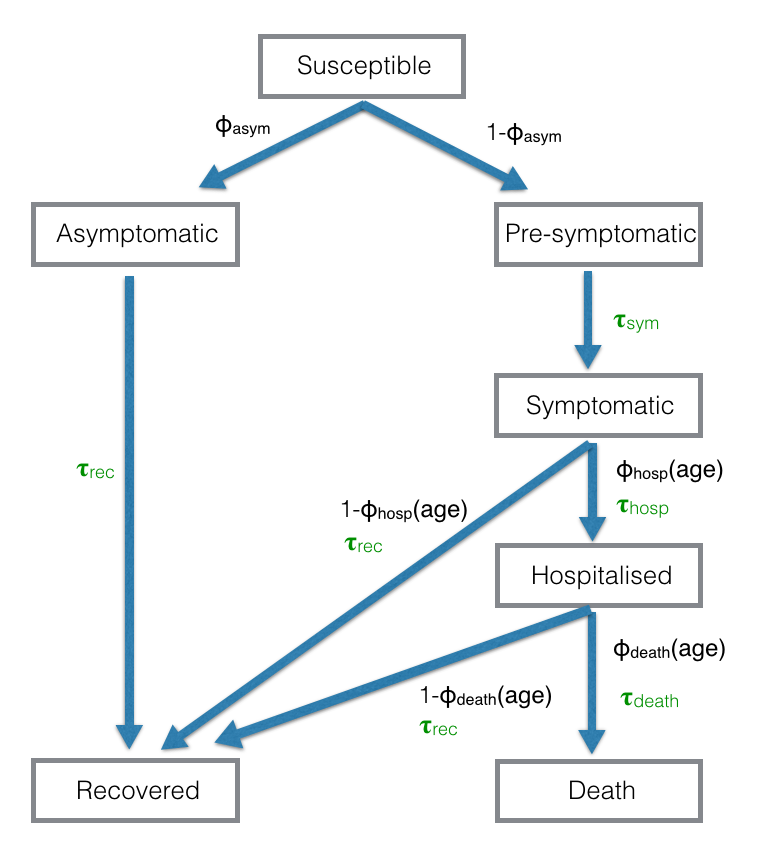
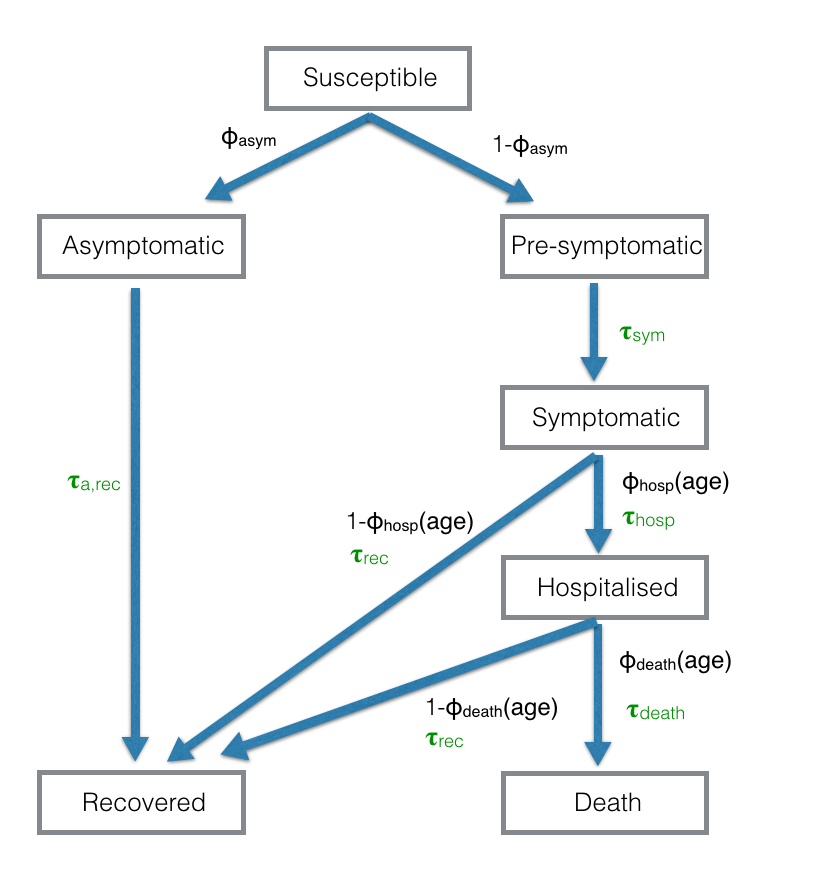
Add missing time to recovery data parameters to the documentation.

Changed region(s): [[0.0311, 0.0312, 0.9339, 0.9676], [0.9027, 0.437, 0.9339, 0.4994]]

diff --git a/documentation/covid19_model.tex b/documentation/covid19_model.tex
@@ -176,7 +176,8 @@ The final formula for the probability of the virus being transmitted in a single
 \end{equation}
 where $f_{\Gamma}(u; \mu_i,\sigma_i^2)$ is the p.d.f.\ of a gamma distribution with mean $\mu$ and variance $\sigma^2$; $t$ is the number of days since the infector become infected; $a_s$ is the age group of the susceptible; $b$ is an indicator of whether the infector is asymptomatic; and, the other terms are parameters which are in the Infectious Parameters table.
 
-The epidemic is seeded by randomly infecting a small number of individuals at the start of the infection.
+The epidemic is seeded by randomly infecting a small number of individuals at the start of the infection. 
+The infection was assumed to take place on immediately before the simulation starts.
 
 \medskip \medskip
 \begin{table}
@@ -199,6 +200,9 @@ $A_{\rm asym}$ & \texttt{asymptomatic\us infectious\us factor}& relative infecti
  $s_{\rm adult}$   &   - &  - & 1\\
  $s_{\rm elderly}$ &  \texttt{relative\us susceptibility\us elderly} & relative susceptibility of elderly to adult & 1.7 \\
  \hline
+  -&  \texttt{n\us seed\us infection} & number of individual randomly infected at start of simulation & 10 \\
+ \hline
+
 \end{tabular}
 \end{table}
 \medskip \medskip
@@ -207,18 +211,18 @@ $A_{\rm asym}$ & \texttt{asymptomatic\us infectious\us factor}& relative infecti
 
 Upon infection, an individual enters a disease progression cascade where the outcome and rates of progression are dependent upon age of the infected person (figure \ref{diseaseDynamics}).
 The first split is that only a fraction of individual who will develop symptoms, where a fraction ($\phi_{\rm asym}$) remain asymptomatic.
-Those who are asymptomatic are infections (at a lower level, see Infection Dynamics section) and will move to a recovered state after a time ($\tau_{\rm rec}$) drawn from a gamma distribution.
+Those who are asymptomatic are infections (at a lower level, see Infection Dynamics section) and will move to a recovered state after a time ($\tau_{\rm a,rec}$) drawn from a gamma distribution.
 Once an individual is recovered we assume that they have immunity and cannot be reinfected.
 
 For individual who will develop symptoms, they start by being in the pre-symptomatic state, where whilst they will be able to transmit the disease to others, they will not be showing any symptoms. 
 This is important for modelling interventions because individuals in this state would not be able self-isolate unless they had been contact-traced (or there was a complete shutdown).
 After a time ($\tau_{\rm sym}$) drawn from a gamma distribution, the individual develops symptoms, at which case interventions can be triggered such as self-isolation, testing and contact-tracing.
 Whilst most individuals will only develop mild symptoms, a fraction ($\phi_{\rm hosp}({\rm age})$) will go on to require hospitalisation, where the probability of requiring hospital treatment is age-dependent.
-Those of don't require hospitalisation will recover after a time( $\tau_{\rm rec}$) drawn from a gamma distribution, whilst those who require hospital treatment enter after a time ($\tau_{\rm hosp}$) drawn from a Bernoulli distribution of either 1 or 2 days.
+Those of don't require hospitalisation will recover after a time ($\tau_{\rm rec}$) drawn from a gamma distribution, whilst those who require hospital treatment enter after a time ($\tau_{\rm hosp}$) drawn from a Bernoulli distribution of either 1 or 2 days.
 Once entering hospital, a number of interventions can take place. 
 We assume that a clinical diagnosis can immediately decide whether the patient is a case so that contract-tracing can be commenced straight away.
 Of those who enter a hospital, a fraction ($\phi_{\rm death}({\rm age})$) will die with the rest recovering. 
-The time to death ( $\tau_{\rm death}$) and recovery ($\tau_{\rm death}$) are both drawn from gamma distributions.
+The time to death ($\tau_{\rm death}$) and recovery ($\tau_{\rm death}$) are both drawn from gamma distributions.
 
 The disease state transitions are shown in (figure \ref{diseaseDynamics}) and the model parameters are in the table Disease Dynamics Parameters.
 
@@ -260,6 +264,13 @@ $\mu_{\rm hosp} $       &  \texttt{mean\us time\us to\us hospital}  & mean time 
 $\mu_{\rm death} $       &  \texttt{mean\us time\us to\us death} & mean time to death once hospitalised & 12 days \\
 $\sigma_{\rm death} $  &  \texttt{sd\us time\us to\us death}       & s.d.\ time to death once hospitalised & 5 days \\
  \hline
+$\mu_{\rm rec} $       &  \texttt{mean\us time\us to\us recover} & mean time to recover after symptoms/hospital &  12 days \\
+$\sigma_{\rm rec} $  &  \texttt{sd\us time\us to\us recover}       & s.d.\ time to recover after symptoms/hospital & 5 days \\
+ \hline
+$\mu_{\rm a,rec} $       &  \texttt{mean\us asymptomatic\us to\us recover} & mean time to recover after asymptomatic &  15 days \\
+$\sigma_{\rm a,rec} $  &  \texttt{sd\us asymptomatic\us to\us recover}       & s.d.\ time to recover after asymptomatic & 5 days \\
+ \hline
+
 \end{tabular}
 \end{table}
 \medskip \medskip
